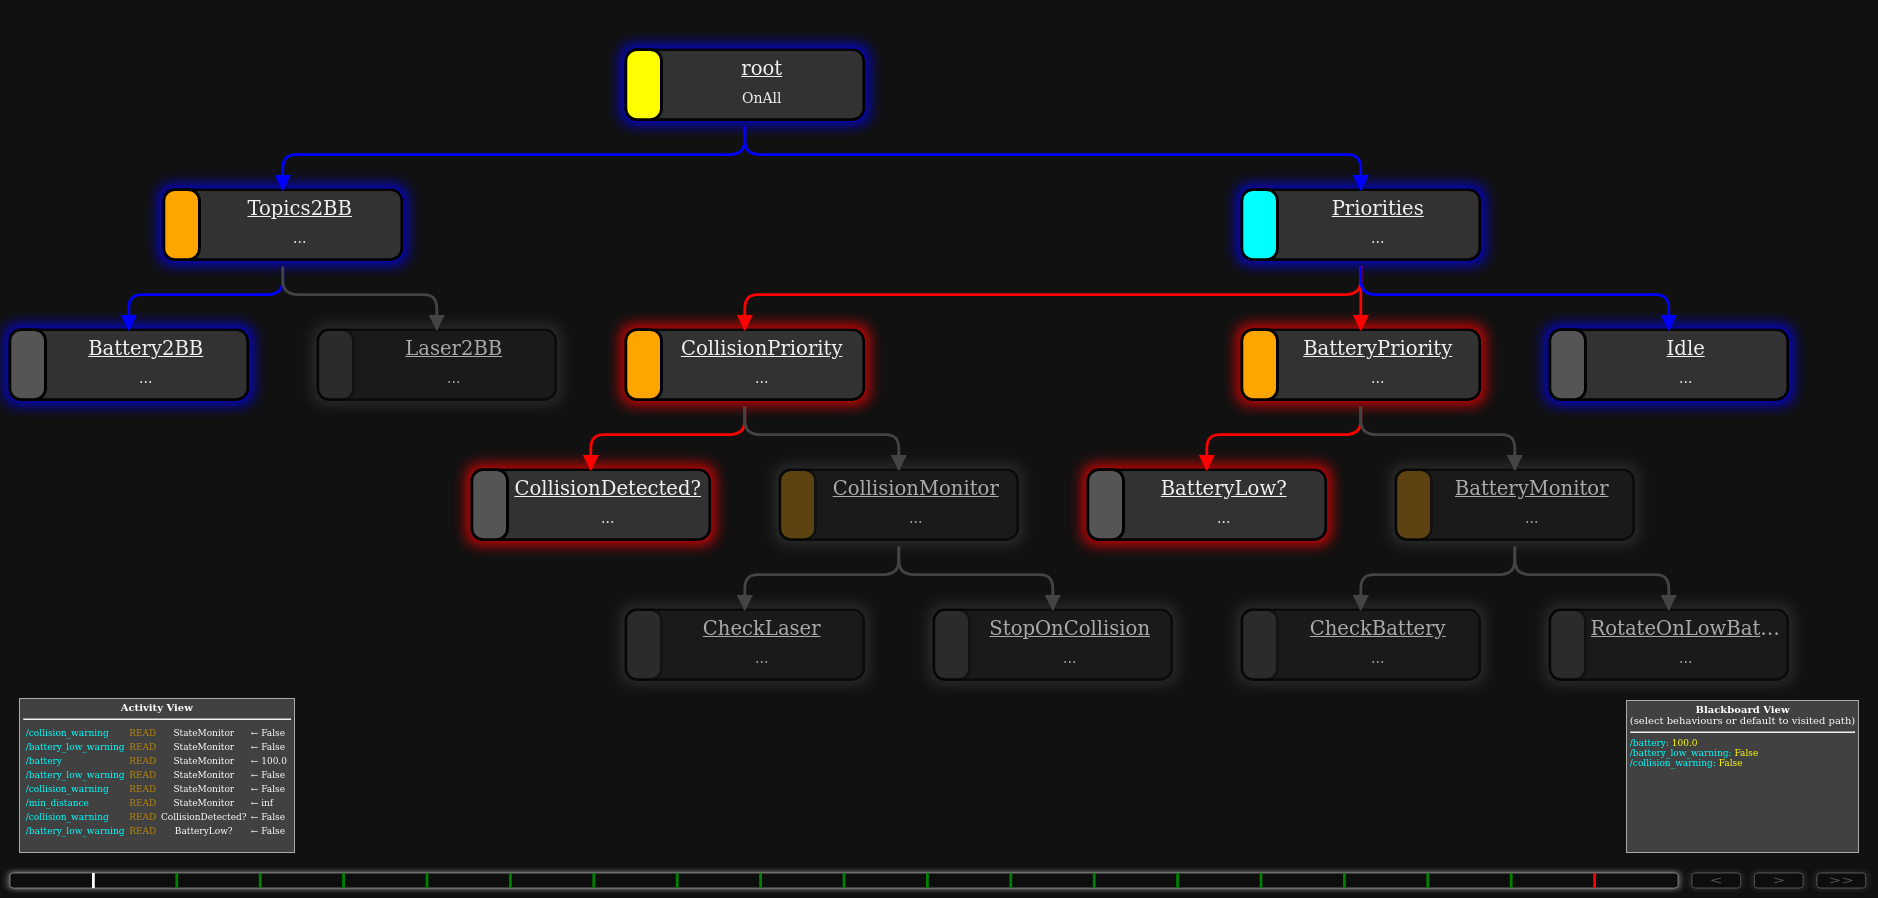
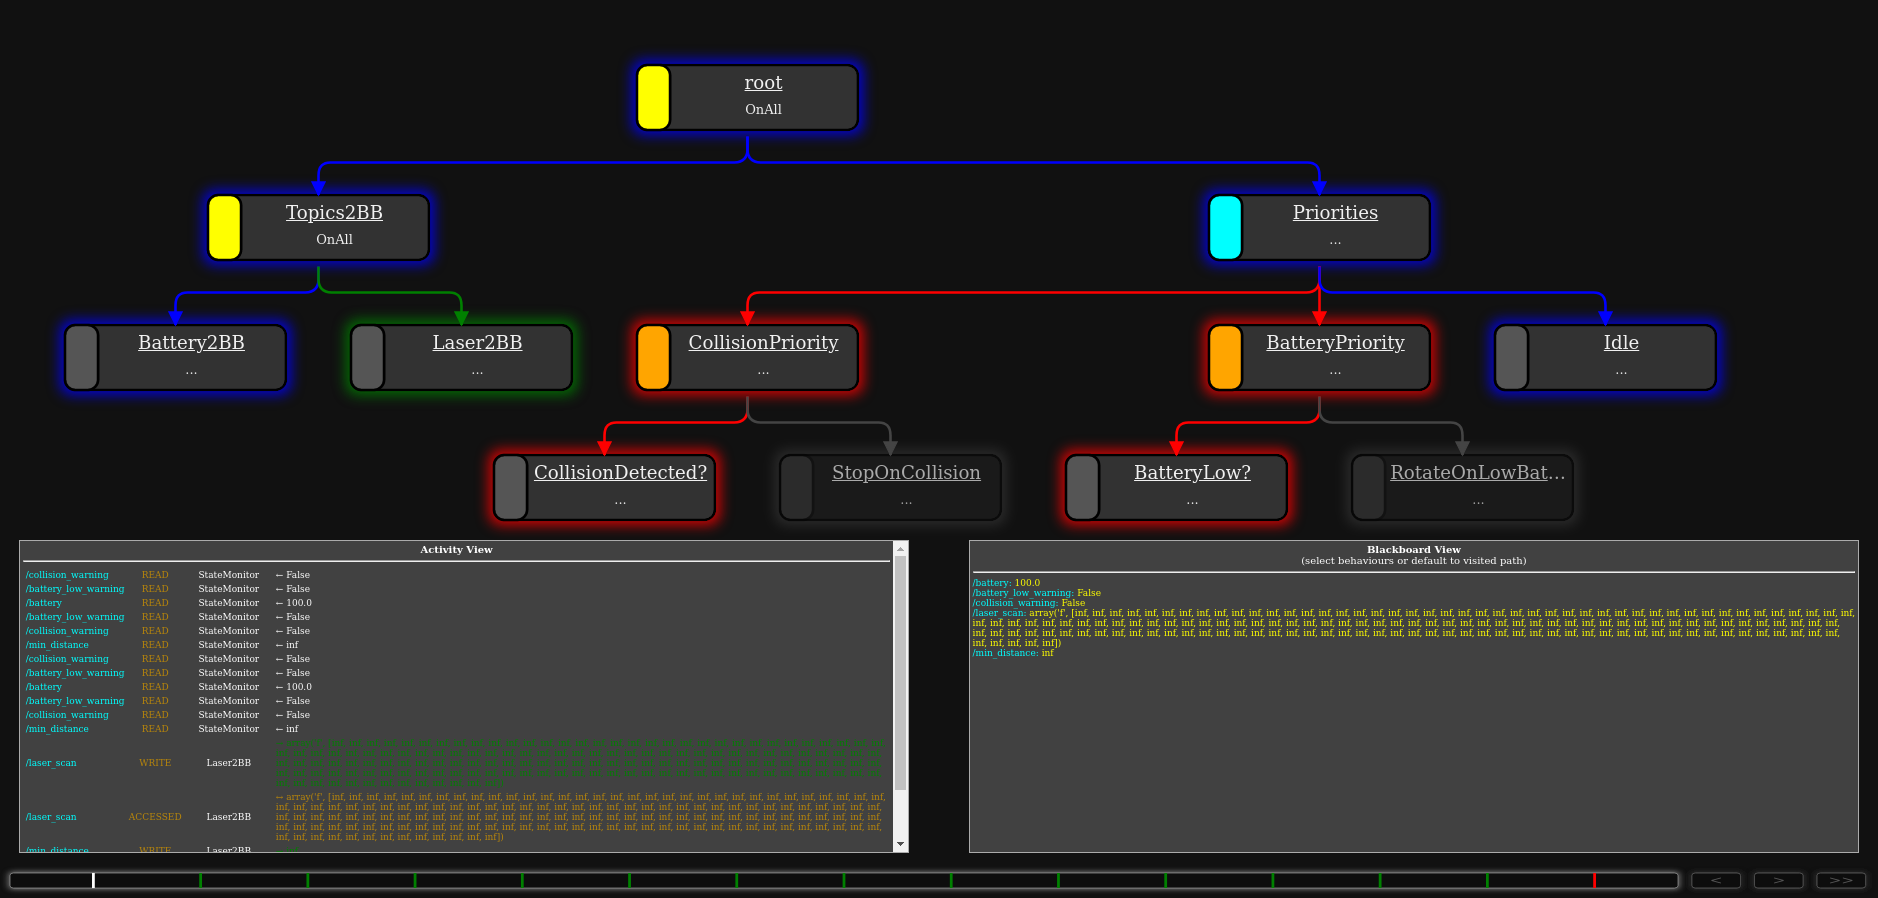
minor tweaks

diff --git a/robile_safety/safety_bt.py b/robile_safety/safety_bt.py
@@ -1,15 +1,20 @@
 ### Implement the safety functionalities for the Robile by implementing all
 ### required behaviours here. Feel free to define additional behaviours if necessary
 
-import rclpy
-import py_trees as pt
-import py_trees_ros as ptr
-from geometry_msgs.msg import Twist
-from std_msgs.msg import Float32
-from sensor_msgs.msg import LaserScan
-from rclpy.qos import QoSProfile, QoSReliabilityPolicy, QoSHistoryPolicy
 import math
+import operator
+import sys
 import time
+
+import py_trees as pt
+import py_trees.console as console
+import py_trees_ros as ptr
+import rclpy
+from geometry_msgs.msg import Twist
+from rclpy.qos import QoSHistoryPolicy, QoSProfile, QoSReliabilityPolicy
+from sensor_msgs.msg import LaserScan
+from std_msgs.msg import Float32
+
 
 class Rotate(pt.behaviour.Behaviour):
     """Rotates the robot about the z-axis 
@@ -190,43 +195,44 @@ class LaserScan2bb(ptr.subscribers.ToBlackboard):
         self.blackboard.min_distance = float('inf')
 
     def update(self):
-        # TODO: impletment the update function to check the laser scan data and update the blackboard variable
-        # YOUR CODE HERE
         status = super().update()
         
         if status != pt.common.Status.RUNNING:
             laser_data = self.blackboard.laser_scan
             
+            self.logger.info(f"📡 [LASER] Raw laser data: {laser_data}")
+            
             if laser_data is not None:
-                min_distance = float('inf')
-                for distance in laser_data:
-                    if not math.isinf(distance) and not math.isnan(distance) and distance > 0: min_distance = min(min_distance, distance)
-                
-                # If we found valid distances, check for collision
-                if min_distance != float('inf'):
-                    self.blackboard.min_distance = min_distance
-                    self.blackboard.collision_warning = min_distance < self.safe_range
+                if len(laser_data) > 0:
+                    min_distance = float('inf')
+                    valid_distances = 0
                     
-                    if self.blackboard.collision_warning: self.logger.warning(f"🚨 [LASER] COLLISION WARNING: {min_distance:.2f}m < {self.safe_range}m")
-                    else: self.logger.info(f"📏 [LASER] Clear: {min_distance:.2f}m")
+                    for distance in laser_data:
+                        if not math.isinf(distance) and not math.isnan(distance) and distance > 0:
+                            min_distance = min(min_distance, distance)
+                            valid_distances += 1
+                    
+                    self.logger.info(f"📡 [LASER] Valid distances found: {valid_distances}/{len(laser_data)}")
+                    
+                    if min_distance != float('inf'):
+                        self.blackboard.min_distance = min_distance
+                        self.blackboard.collision_warning = min_distance < self.safe_range
+                        
+                        if self.blackboard.collision_warning:
+                            self.logger.warning(f"🚨 [LASER] COLLISION WARNING: {min_distance:.2f}m < {self.safe_range}m")
+                        else:
+                            self.logger.info(f"📏 [LASER] Clear: {min_distance:.2f}m")
+                    else:
+                        self.blackboard.min_distance = float('inf')
+                        self.blackboard.collision_warning = False
+                        self.logger.warning("📡 [LASER] No valid distance measurements found!")
                 else:
-                    self.blackboard.min_distance = float('inf')
-                    self.blackboard.collision_warning = False
+                    self.logger.warning("📡 [LASER] Empty laser scan data received!")
+            else:
+                self.logger.warning("📡 [LASER] No laser scan data available on blackboard!")
             
             return pt.common.Status.SUCCESS
         return status
-    
-
-### Implement a behaviour tree using your previously implemented behaviours here
-
-import py_trees as pt
-import py_trees_ros as ptr
-import operator
-
-import py_trees.console as console
-import rclpy
-import sys
-import time
 
 class StateMonitor:
     """Monitors and logs behaviour tree state changes with clean output"""
@@ -323,7 +329,7 @@ class StateMonitor:
                   f"Time: {time.time() - self.start_time:.1f}s | "
                   f"Tick: {self.tick_count}", end="", flush=True)
                   
-        except Exception as e:
+        except Exception:
             print(f"\r📊 CURRENT STATE: {self.current_state} | "
                   f"Data: ❌ | "
                   f"Time: {time.time() - self.start_time:.1f}s | "
@@ -354,8 +360,9 @@ def create_root() -> pt.behaviour.Behaviour:
     root = pt.composites.Parallel(name="root",
                                   policy=pt.common.ParallelPolicy.SuccessOnAll(synchronise=False))    
 
-    ### we create a sequence node called "Topics2BB" and a selector node called "Priorities"
-    topics2BB = pt.composites.Sequence("Topics2BB", memory=False)
+    ### we create a parallel node called "Topics2BB" and a selector node called "Priorities"
+    topics2BB = pt.composites.Parallel(name="Topics2BB",
+                                  policy=pt.common.ParallelPolicy.SuccessOnAll(synchronise=False))  #"Topics2BB", memory=False)
     priorities = pt.composites.Selector("Priorities", memory=False)
 
     ### we create an "Idle" node, which is a running node to keep the robot idle
@@ -370,19 +377,11 @@ def create_root() -> pt.behaviour.Behaviour:
 
     HINT: Some behaviours from pt.behaviours may be useful to use as well.
     """
+    # Create rotate action for low battery
+    rotate_action = Rotate(name="RotateOnLowBattery", ang_vel=2.0)
 
-    # YOUR CODE HERE
-    # Create battery monitoring branch
-    battery_monitor = pt.composites.Sequence("BatteryMonitor", memory=False)
-    battery_check = BatteryStatus2bb(name="CheckBattery", threshold=30.0)
-    rotate_action = Rotate(name="RotateOnLowBattery", ang_vel=1.0)
-    battery_monitor.add_children([battery_check, rotate_action])
-
-    # Create collision avoidance branch
-    collision_monitor = pt.composites.Sequence("CollisionMonitor", memory=False)
-    laser_check = LaserScan2bb(name="CheckLaser", safe_range=1.00)
+    # Create stop action for collision avoidance
     stop_action = StopMotion(name="StopOnCollision")
-    collision_monitor.add_children([laser_check, stop_action])
 
     # Create condition checks for the priorities
     battery_condition = pt.behaviours.CheckBlackboardVariableValue(
@@ -405,10 +404,10 @@ def create_root() -> pt.behaviour.Behaviour:
 
     # Create priority branches
     collision_branch = pt.composites.Sequence("CollisionPriority", memory=False)
-    collision_branch.add_children([collision_condition, collision_monitor])
+    collision_branch.add_children([collision_condition, stop_action])
 
     battery_branch = pt.composites.Sequence("BatteryPriority", memory=False)
-    battery_branch.add_children([battery_condition, battery_monitor])
+    battery_branch.add_children([battery_condition, rotate_action])
 
     # TODO: construct the behaviour tree structure using the nodes and behaviours defined above
     # HINT: for reference, the sample tree structure in the README.md file might be useful

diff --git a/readme.md b/readme.md
@@ -1,46 +1,57 @@
 # Table of Contents
 
-1. [Robile Safety Behaviour Tree](#robile-safety-behaviour-tree)
-   - [Features](#features)
-   - [Safety Behaviors](#safety-behaviors)
-     - [🚨 Collision Avoidance](#-collision-avoidance)
-     - [🔋 Battery Charging Mode](#-battery-charging-mode)
-     - [🟢 Normal Operation](#-normal-operation)
-   - [Node Structure](#node-structure)
-   - [Behavior Tree Structure](#behavior-tree-structure)
-   - [Safety Behaviors Table](#safety-behaviors-1)
-   - [📋 Prerequisites](#-prerequisites)
-   - [Installation](#installation)
-   - [Start the Robile Simulation](#start-the-robile-simulation)
-   - [Run the safety node](#run-the-safety-node)
-   - [Monitoring](#-monitoring)
-     - [Node Status](#node-status)
-     - [Monitor commands](#monitor-commands)
-     - [Monitor inputs](#monitor-inputs)
-     - [Check frequencies](#check-frequencies)
-     - [Output Color Coding](#output-color-coding)
-     - [Understanding the Output](#understanding-the-output)
-   - [Configuration Guide](#configuration-guide)
-     - [Adjustable Parameters](#adjustable-parameters)
-     - [Quick Reference Table](#quick-reference-table)
+- [Table of Contents](#table-of-contents)
+- [Robile Safety Behaviour Tree](#robile-safety-behaviour-tree)
+  - [Features](#features)
+  - [Safety Behaviors](#safety-behaviors)
+    - [🚨 Collision Avoidance](#-collision-avoidance)
+    - [🔋 Battery Charging Mode](#-battery-charging-mode)
+    - [🟢 Normal Operation](#-normal-operation)
+  - [Node Structure](#node-structure)
+  - [Behavior Tree Structure](#behavior-tree-structure)
+  - [Safety Behaviors](#safety-behaviors-1)
+- [📋 Prerequisites](#-prerequisites)
+  - [Required ROS2 packages:](#required-ros2-packages)
+  - [Install py\_trees and related packages](#install-py_trees-and-related-packages)
+  - [Verify installation](#verify-installation)
+- [Installation](#installation)
+  - [Build the package](#build-the-package)
+  - [Start the Robile Simulation](#start-the-robile-simulation)
+  - [Run the safety node](#run-the-safety-node)
+  - [In another terminal, monitor the state](#in-another-terminal-monitor-the-state)
+- [🔍 Monitoring](#-monitoring)
+  - [Node Status](#node-status)
+  - [Monitor commands](#monitor-commands)
+  - [Monitor inputs](#monitor-inputs)
+  - [Check frequencies](#check-frequencies)
+  - [Output Color Coding](#output-color-coding)
+  - [Understanding the Output](#understanding-the-output)
+- [Configuration Guide](#configuration-guide)
+  - [Adjustable Parameters](#adjustable-parameters)
+    - [Quick Reference Table](#quick-reference-table)
+- [Robile Safety State Machine (SMACH)](#robile-safety-state-machine-smach)
+  - [Overview](#overview)
+  - [State Machine Architecture](#state-machine-architecture)
+    - [States](#states)
+    - [State Transitions](#state-transitions)
+  - [Prerequisites](#prerequisites)
+  - [Quick Start Guide](#quick-start-guide)
+    - [1. Start the Robile Simulation](#1-start-the-robile-simulation)
+    - [2. Run the Safety State Machine](#2-run-the-safety-state-machine)
+    - [3. Expected Behavior](#3-expected-behavior)
+    - [4. Triggering State Transitions](#4-triggering-state-transitions)
+      - [Collision Detection](#collision-detection)
+      - [Low Battery](#low-battery)
+      - [Emergency Shutdown](#emergency-shutdown)
+  - [Visualizing the State Machine](#visualizing-the-state-machine)
+    - [Using SMACH Viewer](#using-smach-viewer)
+  - [Development](#development)
+    - [Adding New States](#adding-new-states)
+  - [References](#references)
 
-2. [Robile Safety State Machine (SMACH)](#robile-safety-state-machine-smach)
-   - [Overview](#overview)
-   - [State Machine Architecture](#state-machine-architecture)
-     - [States](#states)
-     - [State Transitions](#state-transitions)
-   - [Prerequisites](#prerequisites-1)
-   - [Quick Start Guide](#quick-start-guide)
-     - [1. Start the Robile Simulation](#1-start-the-robile-simulation)
-     - [2. Run the Safety State Machine](#2-run-the-safety-state-machine)
-     - [3. Expected Behavior](#3-expected-behavior)
-     - [4. Triggering State Transitions](#4-triggering-state-transitions)
-       - [Collision Detection](#collision-detection)
-       - [Low Battery](#low-battery)
-       - [Emergency Shutdown](#emergency-shutdown)
-   - [Visualizing the State Machine](#visualizing-the-state-machine)
-   - [Development](#development)
-   - [References](#references)
+
+
+
 
 # Robile Safety Behaviour Tree
 
